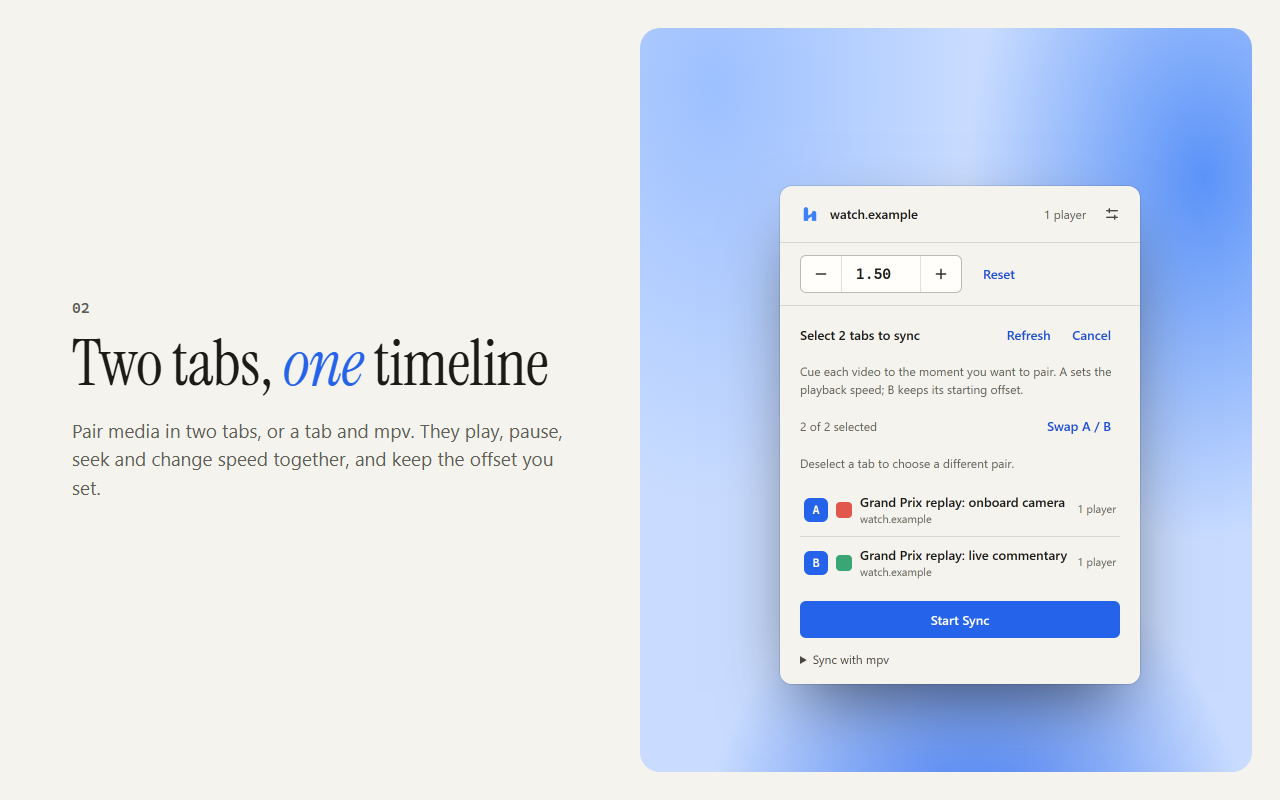
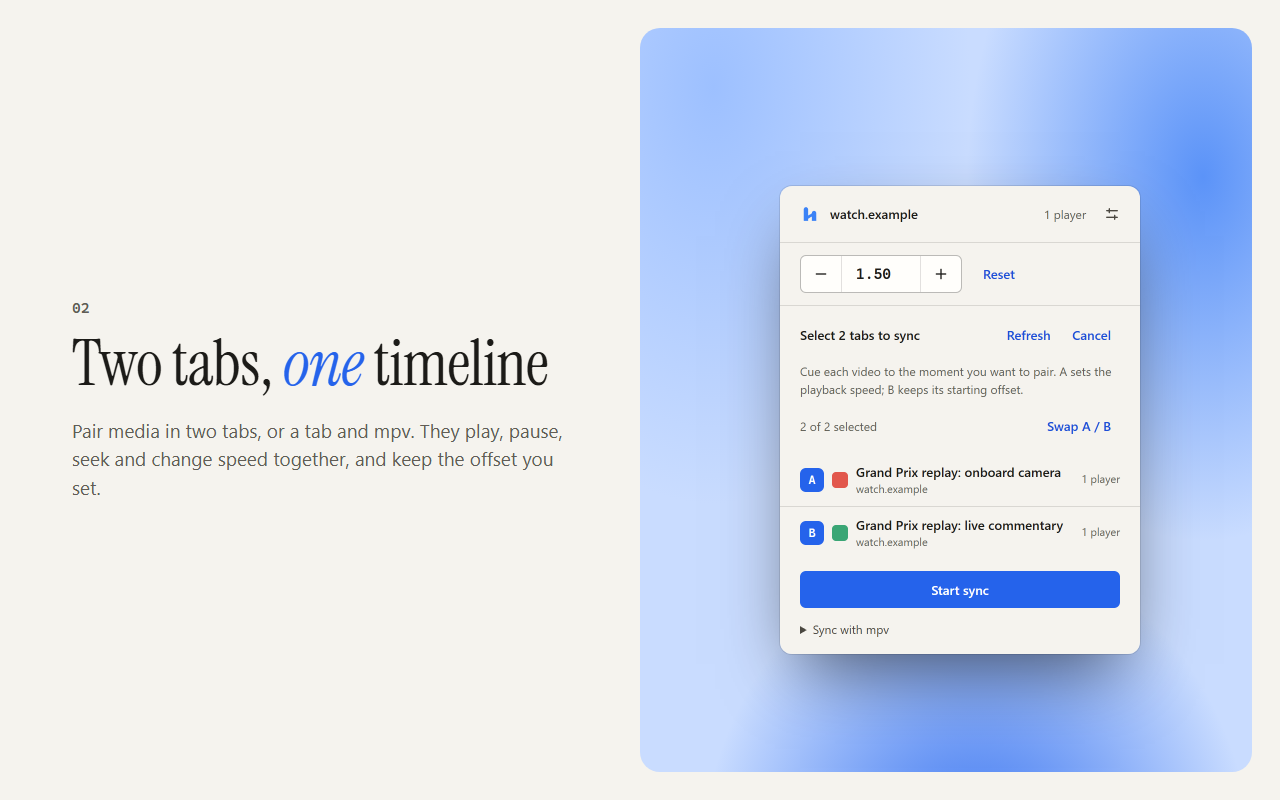
chore: recapture the UI with sentence-case labels

Changed region(s): [[0.5938, 0.5625, 0.9062, 0.9062]]

diff --git a/README.md b/README.md
@@ -6,7 +6,7 @@ Generated images for [Hare](https://github.com/Anthonyy232/Hare), kept off `main
 | --- | --- |
 | `lib.cjs` | Fonts and rendering shared by the scripts |
 | `fonts/` | Instrument Serif, under the SIL Open Font License (`OFL.txt`) |
-| `readme/capture.cjs` | Captures the popup, Sync Mode, settings and on-page controller from the built extension into `readme/inputs/` |
+| `readme/capture.cjs` | Captures the popup, Sync mode, settings and on-page controller from the built extension into `readme/inputs/` |
 | `readme/build.cjs` | Writes `.github/readme/*.png` and `site/img/*.png` in the checkout from `readme/inputs/`, and `social-preview.png` here, and the Chrome Web Store screenshots (1280x800) and promo tile (440x280) in `store/` |
 | `social-preview.png` | The 1280x640 GitHub social preview |
 | `releases/banner.cjs` | Writes `releases/v<version>.png` from `releases/banners.json` |
@@ -29,7 +29,7 @@ node readme/capture.cjs ../..           # only when the UI changed
 node readme/build.cjs ../..
 ```
 
-The capture serves the e2e fixture page (`tests/e2e/server.mjs`) as `watch.example`, opens two tabs titled "Grand Prix replay: onboard camera" and "Grand Prix replay: live commentary", sets 1.5× from the popup, pairs both tabs in Sync Mode, and opens the settings page with the controller preview expanded. It runs in light and dark at 2x, in a throwaway profile. The on-page controller is saved as HTML and CSS (`controller.html`) so the build draws it sharp at any scale.
+The capture serves the e2e fixture page (`tests/e2e/server.mjs`) as `watch.example`, opens two tabs titled "Grand Prix replay: onboard camera" and "Grand Prix replay: live commentary", sets 1.5× from the popup, pairs both tabs in Sync mode, and opens the settings page with the controller preview expanded. It runs in light and dark at 2x, in a throwaway profile. The on-page controller is saved as HTML and CSS (`controller.html`) so the build draws it sharp at any scale.
 
 Commit the new inputs and `social-preview.png` here, and the changed images on `main`. GitHub has no API for the social preview: upload `social-preview.png` in the repository settings under Social preview.
 
